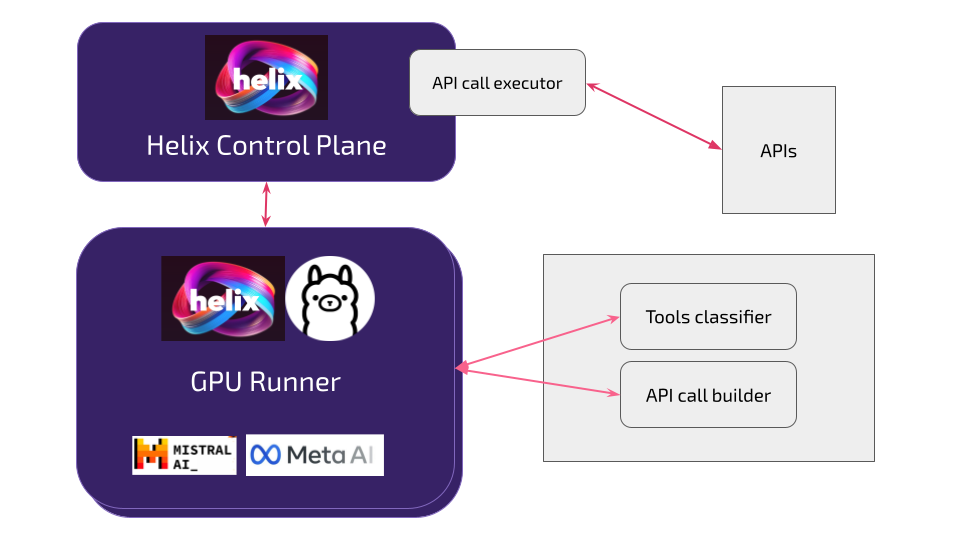
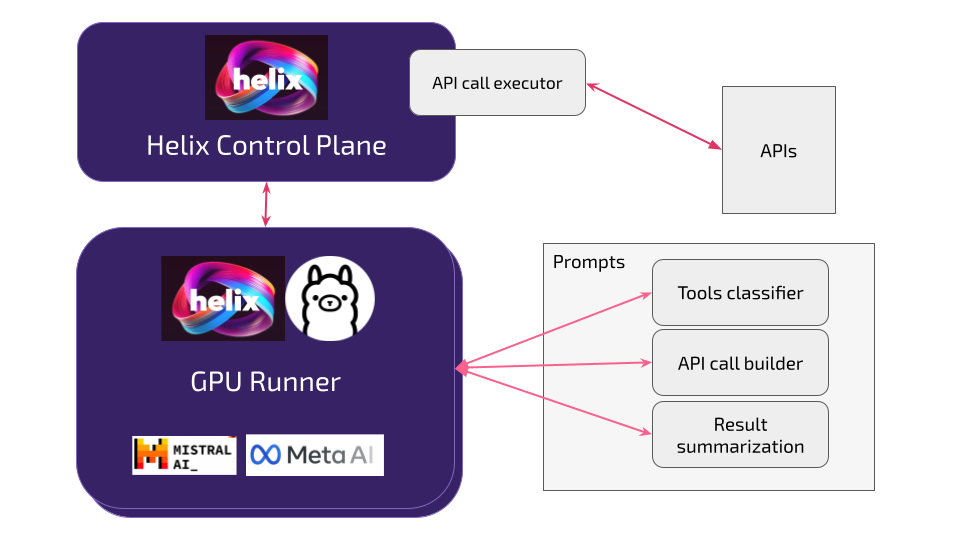
less adjectives and new diagram

Changed region(s): [[0.4688, 0.5333, 0.875, 0.8593], [0.5625, 0.4444, 0.9062, 0.5037], [0.6875, 0.5037, 0.7188, 0.5333]]

diff --git a/content/helix/develop/helix-tools.md b/content/helix/develop/helix-tools.md
@@ -25,11 +25,6 @@ This page describes Helix API Tools and how to set up and manage tools within th
 
 - **Function**: Executes specific AI tasks using high-performance GPUs
 - **Role**: Processes prompts through different AI tools and models
-- **Integrated Models**:
-  - **Helix 3.5**: Utilizes Llama3-8B for fast and efficient performance, ideal for everyday tasks.
-  - **Helix 4**: Powered by Llama3-70B, this model offers deeper insights and although a bit slower, it's smarter for complex queries.
-  - **Helix Code**: Features CodeLlama-70B from Meta, which excels in programming and coding tasks, surpassing the capabilities of GPT-4 in software development contexts.
-  - **Helix JSON**: Operates on Nous Hermes 2 Pro 7B, specialized for function calling and generating JSON outputs, enhancing automation and integration tasks.
 - **Key Processes**:
   - Tools Classifier: Classifies the necessary tools required for the task
   - API Call Builder: Constructs API call requests based on the classified tools
@@ -60,16 +55,16 @@ This architecture ensures efficient task management and execution by leveraging 
 
 ## What is an API Tool?
 
-An API (Application Programming Interface) tool in the context of the Helix platform is a powerful feature that allows you to:
+An API (Application Programming Interface) tool in the context of the Helix platform is a feature that allows you to:
 
 - Augment and enhance the capabilities of your AI models 
 - Integrate external data and functionality
 
 ## Why are API Tools Useful?
 
-API tools are incredibly useful for several reasons:
+API tools are useful for several reasons:
 
-1. **Expanded Knowledge**: By connecting to external APIs, your AI can access vast amounts of up-to-date information that may not be present in its training data. This allows the AI to provide more accurate, relevant, and timely responses to user queries.
+1. **Expanded Knowledge**: By connecting to external APIs, your AI can access up-to-date information that may not be present in its training data. This allows the AI to provide more accurate, relevant, and timely responses to user queries.
 
 2. **Specialized Functionality**: APIs often provide specialized functionality that can be leveraged by your AI. For example:
    - Integrating a weather API allows your AI to provide current weather information
@@ -158,4 +153,3 @@ At the bottom of the screen, you have the following options:
 
 - **Cancel**: Click the "Cancel" button to cancel any changes and navigate back to the tools list.
 - **Save**: Click the "Save" button to save your API tool configuration. If there are any validation errors, they will be displayed, and you will need to fix them before saving.
-
